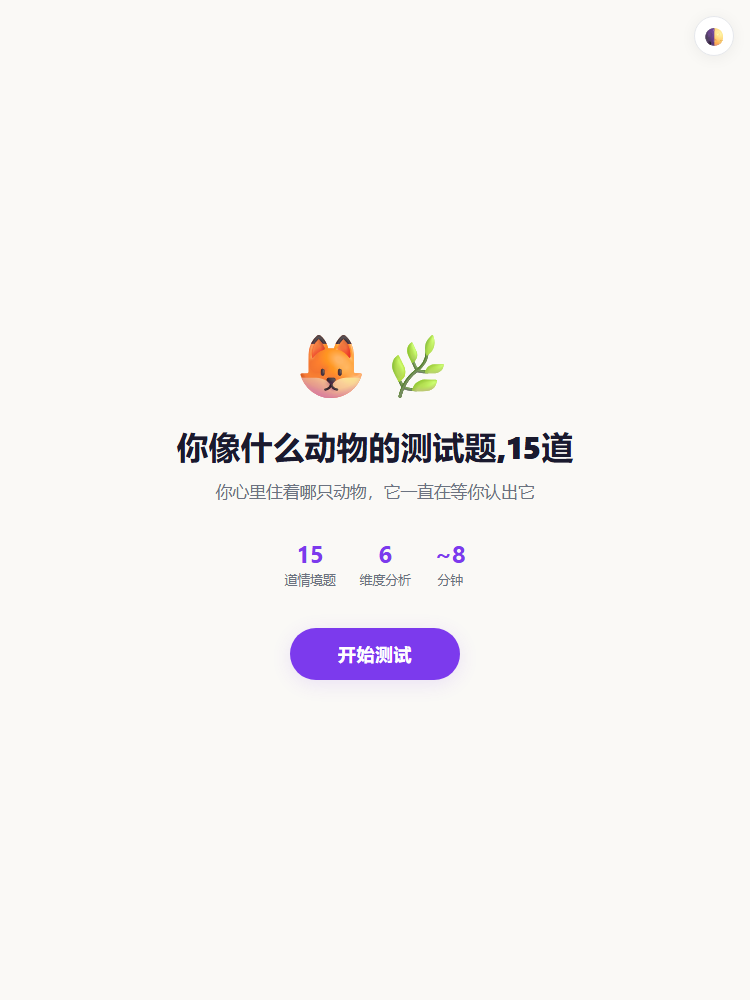
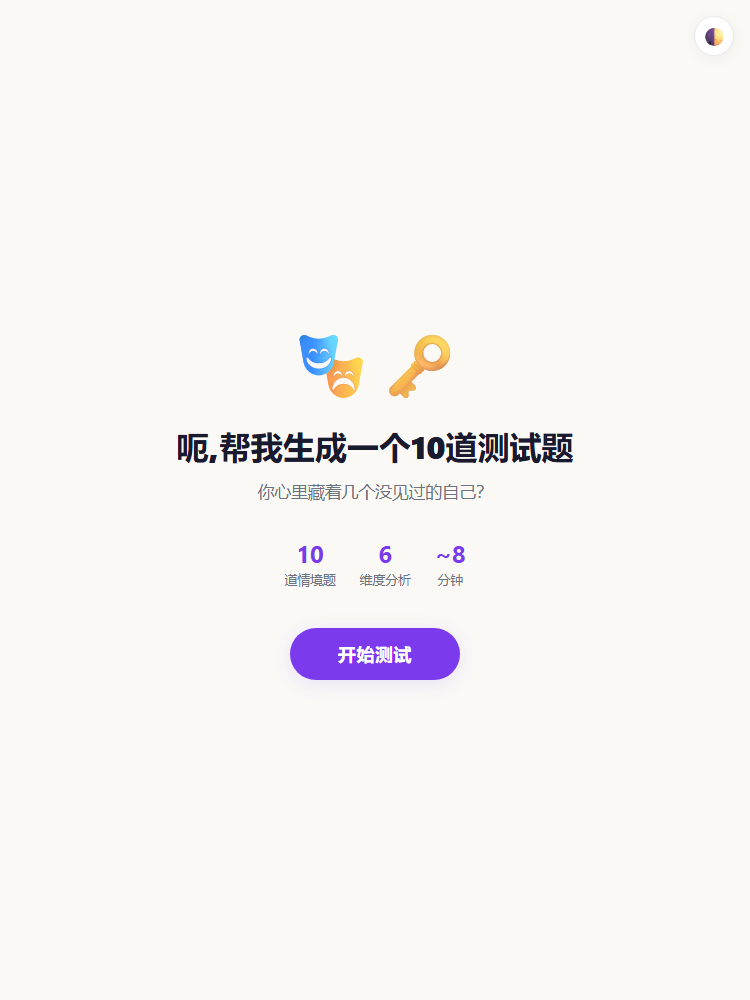
deploy 2026-08-25

diff --git a/d/2026-08-25/index.html b/d/2026-08-25/index.html
@@ -3,7 +3,7 @@
 <head>
 <meta charset="UTF-8">
 <meta name="viewport" content="width=device-width, initial-scale=1.0, maximum-scale=1.0, user-scalable=no">
-<title>你像什么动物的测试题,15道</title>
+<title>呃,帮我生成一个10道测试题</title>
 <style>
   :root {
     --bg: #faf9f6;
@@ -169,9 +169,9 @@
 
 <!-- ═══ Landing Page ═══ -->
 <div id="landing" class="section active">
-  <div class="icon">🦊🌿</div>
-  <h1>你像什么动物的测试题,15道</h1>
-  <p class="tagline">你心里住着哪只动物，它一直在等你认出它</p>
+  <div class="icon">🎭🗝</div>
+  <h1>呃,帮我生成一个10道测试题</h1>
+  <p class="tagline">你心里藏着几个没见过的自己？</p>
   <div class="meta">
     <div class="meta-item"><div class="num" id="total-questions">60</div><div class="label">道情境题</div></div>
     <div class="meta-item"><div class="num">6</div><div class="label">维度分析</div></div>
@@ -205,7 +205,7 @@
 <!-- ═══ Results Section ═══ -->
 <div id="results-section" class="section">
   <div class="result-header">
-    <h1>你像什么动物的测试题,15道 — 你的结果</h1>
+    <h1>呃,帮我生成一个10道测试题 — 你的结果</h1>
     <div class="personality-badge" id="personality-badge">ENFP</div>
     <p style="margin-top:8px;color:var(--text-secondary);font-size:0.9rem;" id="personality-desc"></p>
   </div>
@@ -219,10 +219,10 @@
 <script src="https://cdn.jsdelivr.net/npm/chart.js@4.4.0/dist/chart.umd.min.js" defer></script>
 <script>
   // ═══ Data ═══
-  const questions = [{"id": 1, "text": "朋友临时约你今晚聚餐，你会？", "type": "situational", "content_angle": "social_interaction", "options": [{"label": "A", "text": "立刻答应，人多更热闹", "scores": {"D1": 7, "D2": 4, "D3": 2, "D4": 0, "D5": 0, "D6": 0}}, {"label": "B", "text": "先问有哪些人去再决定", "scores": {"D1": 0, "D2": 0, "D3": 0, "D4": 0, "D5": 5, "D6": 2}}, {"label": "C", "text": "婉拒，更想自己待着", "scores": {"D1": 0, "D2": 0, "D3": 0, "D4": 0, "D5": 0, "D6": 5}}, {"label": "D", "text": "答应，但会提前离场", "scores": {"D1": 2, "D2": 0, "D3": 0, "D4": 0, "D5": 0, "D6": 0}}]}, {"id": 2, "text": "面对一个全新的工作项目，你？", "type": "preference", "content_angle": "decision_style", "options": [{"label": "A", "text": "立刻冲进去边做边学", "scores": {"D2": 7, "D3": 5, "D5": 0, "D1": 0, "D4": 2, "D6": 0}}, {"label": "B", "text": "先花时间研究再动手", "scores": {"D2": 0, "D3": 0, "D5": 7, "D1": 0, "D4": 0, "D6": 0}}, {"label": "C", "text": "感觉不错就接，不纠结", "scores": {"D2": 2, "D3": 2, "D5": 0, "D1": 0, "D4": 0, "D6": 0}}, {"label": "D", "text": "希望有明确指引再行动", "scores": {"D2": 0, "D3": 0, "D5": 3, "D1": 0, "D4": 0, "D6": 4}}]}, {"id": 3, "text": "你的物品被同事不打招呼借用，你？", "type": "situational", "content_angle": "value_judgment", "options": [{"label": "A", "text": "直接拿回来并告知规则", "scores": {"D4": 7, "D6": 7, "D2": 3, "D1": 0, "D5": 0, "D3": 0}}, {"label": "B", "text": "心里不快但不说什么", "scores": {"D4": 0, "D6": 2, "D2": 0, "D1": 0, "D5": 0, "D3": 0}}, {"label": "C", "text": "无所谓，大家随便用", "scores": {"D6": 0, "D4": 0, "D1": 0, "D5": 0, "D3": 3}}, {"label": "D", "text": "以后把东西藏起来", "scores": {"D6": 5, "D2": 0, "D4": 2, "D1": 0, "D5": 0, "D3": 0}}]}, {"id": 4, "text": "周末你更倾向于怎么度过？", "type": "preference", "content_angle": "self_perception", "options": [{"label": "A", "text": "约朋友出去玩或聚会", "scores": {"D1": 7, "D2": 2, "D3": 2, "D4": 0, "D5": 0, "D6": 0}}, {"label": "B", "text": "在家看书或追剧", "scores": {"D1": 0, "D2": 0, "D3": 0, "D4": 0, "D5": 3, "D6": 4}}, {"label": "C", "text": "探索新地方或新餐厅", "scores": {"D3": 7, "D2": 3, "D1": 2, "D4": 0, "D5": 0, "D6": 0}}, {"label": "D", "text": "整理房间或处理琐事", "scores": {"D5": 2, "D2": 2, "D6": 2, "D1": 0, "D4": 0, "D3": 0}}]}, {"id": 5, "text": "团队合作时，你通常扮演？", "type": "self_assessment", "content_angle": "social_interaction", "options": [{"label": "A", "text": "带头冲锋的那个", "scores": {"D4": 7, "D2": 5, "D1": 2, "D5": 0, "D6": 2, "D3": 0}}, {"label": "B", "text": "协调各方和事佬", "scores": {"D1": 5, "D4": 0, "D5": 2, "D2": 0, "D6": 0, "D3": 2}}, {"label": "C", "text": "默默干活的执行者", "scores": {"D2": 3, "D5": 2, "D1": 0, "D4": 0, "D6": 0, "D3": 0}}, {"label": "D", "text": "提点子的智囊", "scores": {"D5": 7, "D1": 0, "D2": 0, "D4": 0, "D6": 0, "D3": 0}}]}, {"id": 6, "text": "到了一个新城市，你会？", "type": "situational", "content_angle": "environment_adaptation", "options": [{"label": "A", "text": "兴奋地四处探索", "scores": {"D3": 7, "D2": 4, "D1": 2, "D4": 0, "D5": 0, "D6": 0}}, {"label": "B", "text": "先找好固定活动范围", "scores": {"D6": 5, "D5": 2, "D3": 2, "D1": 0, "D4": 0, "D2": 0}}, {"label": "C", "text": "有点紧张，慢慢适应", "scores": {"D3": 0, "D2": 0, "D5": 0, "D1": 0, "D4": 0, "D6": 3}}, {"label": "D", "text": "迅速交到新朋友", "scores": {"D1": 7, "D3": 4, "D2": 2, "D4": 0, "D5": 0, "D6": 0}}]}, {"id": 7, "text": "遇到困难时，你的第一反应？", "type": "self_assessment", "content_angle": "stress_response", "options": [{"label": "A", "text": "冷静分析找解决方案", "scores": {"D5": 7, "D2": 3, "D4": 2, "D1": 0, "D6": 0, "D3": 0}}, {"label": "B", "text": "找人倾诉寻求支持", "scores": {"D1": 7, "D2": 0, "D5": 0, "D4": 0, "D6": 2, "D3": 0}}, {"label": "C", "text": "先自己扛，不行再说", "scores": {"D4": 3, "D6": 4, "D2": 0, "D5": 0, "D1": 0, "D3": 0}}, {"label": "D", "text": "随遇而安，船到桥头直", "scores": {"D3": 5, "D5": 0, "D2": 0, "D4": 0, "D1": 0, "D6": 0}}]}, {"id": 8, "text": "关于个人空间，你的态度是？", "type": "value", "content_angle": "value_judgment", "options": [{"label": "A", "text": "我的地盘我做主", "scores": {"D6": 7, "D4": 4, "D2": 0, "D1": 0, "D5": 0, "D3": 0}}, {"label": "B", "text": "空间可以共享，但要有界限", "scores": {"D6": 3, "D5": 2, "D1": 2, "D4": 0, "D2": 0, "D3": 0}}, {"label": "C", "text": "完全开放，不在意这些", "scores": {"D6": 0, "D1": 3, "D3": 2, "D4": 0, "D5": 0, "D2": 0}}, {"label": "D", "text": "需要很多独处时间", "scores": {"D1": 0, "D6": 5, "D3": 0, "D4": 0, "D5": 0, "D2": 0}}]}, {"id": 9, "text": "当别人和你意见不同时，你？", "type": "situational", "content_angle": "social_interaction", "options": [{"label": "A", "text": "坚持自己的观点", "scores": {"D4": 7, "D5": 3, "D2": 2, "D1": 0, "D6": 2, "D3": 0}}, {"label": "B", "text": "听对方说完再判断", "scores": {"D5": 5, "D1": 2, "D4": 0, "D2": 0, "D6": 0, "D3": 2}}, {"label": "C", "text": "为了避免冲突而妥协", "scores": {"D4": 0, "D1": 2, "D3": 2, "D5": 0, "D2": 0, "D6": 0}}, {"label": "D", "text": "情绪上来，不欢而散", "scores": {"D4": 2, "D1": 0, "D5": 0, "D2": 0, "D6": 3, "D3": 0}}]}, {"id": 10, "text": "对于未来，你更看重？", "type": "value", "content_angle": "future_orientation", "options": [{"label": "A", "text": "稳定安逸的生活", "scores": {"D3": 2, "D6": 5, "D2": 0, "D1": 0, "D5": 0, "D4": 0}}, {"label": "B", "text": "精彩刺激的冒险", "scores": {"D2": 6, "D3": 5, "D1": 2, "D4": 0, "D5": 0, "D6": 0}}, {"label": "C", "text": "实现自己的价值", "scores": {"D4": 4, "D5": 3, "D2": 2, "D1": 0, "D6": 0, "D3": 0}}, {"label": "D", "text": "和亲友在一起就好", "scores": {"D1": 5, "D6": 2, "D3": 0, "D4": 0, "D5": 0, "D2": 0}}]}, {"id": 11, "text": "你觉得自己更像哪种风格？", "type": "self_assessment", "content_angle": "self_perception", "options": [{"label": "A", "text": "直来直去的行动派", "scores": {"D2": 6, "D4": 5, "D1": 0, "D5": 0, "D6": 0, "D3": 0}}, {"label": "B", "text": "深思熟虑的思考者", "scores": {"D5": 7, "D2": 0, "D4": 0, "D1": 0, "D6": 2, "D3": 0}}, {"label": "C", "text": "随和好相处的伙伴", "scores": {"D1": 5, "D3": 3, "D4": 0, "D2": 0, "D5": 0, "D6": 0}}, {"label": "D", "text": "独立自主的独行侠", "scores": {"D6": 5, "D1": 0, "D2": 2, "D4": 2, "D5": 0, "D3": 0}}]}, {"id": 12, "text": "给朋友准备生日礼物，你会？", "type": "preference", "content_angle": "emotional_pattern", "options": [{"label": "A", "text": "投其所好精心挑选", "scores": {"D1": 3, "D5": 4, "D2": 2, "D4": 0, "D6": 0, "D3": 0}}, {"label": "B", "text": "实用为主不搞虚的", "scores": {"D5": 5, "D2": 0, "D4": 0, "D1": 0, "D6": 0, "D3": 0}}, {"label": "C", "text": "直接发红包最省事", "scores": {"D2": 3, "D5": 2, "D4": 0, "D1": 0, "D6": 0, "D3": 0}}, {"label": "D", "text": "亲手做更有心意", "scores": {"D1": 2, "D5": 0, "D2": 0, "D4": 0, "D6": 2, "D3": 2}}]}, {"id": 13, "text": "被误解时，你的表现是？", "type": "situational", "content_angle": "social_interaction", "options": [{"label": "A", "text": "立刻解释清楚", "scores": {"D2": 5, "D4": 4, "D1": 2, "D5": 0, "D6": 0, "D3": 0}}, {"label": "B", "text": "懒得解释，懂自懂", "scores": {"D4": 0, "D5": 3, "D6": 3, "D1": 0, "D2": 0, "D3": 0}}, {"label": "C", "text": "很受伤，默默消化", "scores": {"D1": 0, "D5": 0, "D6": 2, "D4": 0, "D2": 0, "D3": 0}}, {"label": "D", "text": "用行动证明自己", "scores": {"D2": 4, "D4": 2, "D5": 2, "D1": 0, "D6": 0, "D3": 0}}]}, {"id": 14, "text": "旅行时你更偏好哪种方式？", "type": "preference", "content_angle": "self_perception", "options": [{"label": "A", "text": "详细计划每天行程", "scores": {"D5": 5, "D2": 2, "D6": 2, "D1": 0, "D4": 0, "D3": 0}}, {"label": "B", "text": "走到哪玩到哪", "scores": {"D3": 6, "D2": 5, "D1": 0, "D4": 0, "D5": 0, "D6": 0}}, {"label": "C", "text": "跟团省心不用想", "scores": {"D2": 0, "D5": 0, "D6": 2, "D1": 2, "D4": 0, "D3": 2}}, {"label": "D", "text": "约上好友一起热闹", "scores": {"D1": 7, "D2": 2, "D3": 2, "D4": 0, "D5": 0, "D6": 0}}]}, {"id": 15, "text": "对于竞争，你的看法是？", "type": "value", "content_angle": "value_judgment", "options": [{"label": "A", "text": "全力以赴争第一", "scores": {"D4": 6, "D2": 5, "D5": 2, "D1": 0, "D6": 2, "D3": 0}}, {"label": "B", "text": "尽力就好不执着", "scores": {"D3": 4, "D5": 2, "D2": 0, "D4": 0, "D1": 0, "D6": 0}}, {"label": "C", "text": "避开竞争找自己的路", "scores": {"D6": 3, "D1": 0, "D2": 0, "D4": 0, "D5": 3, "D3": 2}}, {"label": "D", "text": "享受过程不在乎结果", "scores": {"D3": 3, "D1": 2, "D5": 2, "D2": 0, "D4": 0, "D6": 0}}]}];
-  const dimensionDefs = [{"id": "D1", "name": "社交能量", "description": "你在社交场合中获取能量还是消耗能量，以及与他人互动的方式", "high_label": "群居型", "low_label": "独居型"}, {"id": "D2", "name": "行动风格", "description": "面对目标时你是快速出击还是谨慎观望，决策的速度和方式", "high_label": "敏捷型", "low_label": "沉稳型"}, {"id": "D3", "name": "环境适应", "description": "你对新环境、新变化的适应能力和应对方式", "high_label": "随遇而安", "low_label": "恋旧安定"}, {"id": "D4", "name": "力量展现", "description": "你倾向于用直接强势还是温和迂回的方式解决问题", "high_label": "强势主导", "low_label": "温和迂回"}, {"id": "D5", "name": "思维偏好", "description": "你更依赖理性分析还是直觉感受来做判断", "high_label": "理性分析", "low_label": "直觉感受"}, {"id": "D6", "name": "领地意识", "description": "你对个人空间、资源和关系的占有欲和保护程度", "high_label": "守护型", "low_label": "开放型"}];
-  const personalityMapping = {"classification_type": "descriptive", "primary_tag": "高社交能量·行动派", "tag_name": "草原领航员", "community_description": "和你一样的草原领航员，在人群中通常是最先发出声音、最先迈出脚步的那一个。你们像草原上的领头羚羊，天生带着一种让周围人感到安心的方向感——不是因为你们永远正确，而是因为你们敢在不确定的时候先动起来。你们的社交能量像正午的阳光，能照亮一整个房间，让沉默的人也想开口，让犹豫的人愿意跟上。在行动风格上，你们偏好'先跑了再说'，比起在头脑里反复推演，你们更相信路上会找到答案。这种特质让你们在团队里天然成为推动者，也往往是朋友中那个'组局的人'。但需要注意的是，你们的快节奏有时会让慢热的人感到压力，你们对'效率'的执着也可能无意中忽略了过程中细腻的情感需求。你们适应新环境的能力很强，但可能对重复性、缺乏变化的日常感到焦躁。在力量展现上，你们更倾向于用热情和感染力来带动他人，而不是用权威或压制。思维偏好上，你们是典型的发散型思考者，灵感多、点子密，但可能需要刻意练习'收束'，把想法落地成可执行的步骤。你们的领地意识不算强，但很在意'话语权'——你们希望自己的声音被听见，也希望自己重视的人愿意跟你们并肩。接下来，你们可以练习在冲刺和休整之间找到节奏，学着在发起行动之前多倾听一秒钟，也学着欣赏那些和你们不一样的'慢'——因为草原上不仅有奔跑的羚羊，也有扎根的树。", "possible_tags": ["高社交能量·行动派", "低社交能量·观察派", "高适应·变色龙型", "高力量·主导型", "高思维·策略型", "高领地·守护型"], "dominant_dim": "D1"};
-  const analysisData = [{"dim_id": "D1", "核心特质": "你在聚会中会自动流向人群中心，像磁铁吸附铁屑般自然。朋友说你是‘行走的充电宝’，因为独处超过两小时，你的能量条就开始闪烁红灯。你通过他人的笑声确认自我存在，微信群里的@提示音比咖啡更提神。对你而言，孤独不是享受，而是需要尽快逃离的荒岛。", "潜在盲点": "你常把‘被需要’误认为‘被喜欢’，为维持热闹氛围，会下意识压抑真实情绪。深夜散场后，那种空落感并非疲惫，而是你从未直面自我的回声。过度依赖外部反馈，导致你害怕沉默，甚至用讨好换取在场感——这让你在亲密关系中显得浅层，且容易因他人冷落而焦虑失控。", "专属建议": "每周刻意安排两小时‘数字斋戒’，关掉所有通知，去公园观察一棵树。不必强迫自己享受独处，只需记录下这段空白里冒出的念头。尝试在聊天中主动表达一次反对意见，哪怕只是对餐厅菜品的评价。你会发现，真正的社群归属感不是聚光灯下的热闹，而是有人记得你安静时的模样。"}, {"dim_id": "D2", "核心特质": "你是那种在团队讨论中第一个举手说‘我来试试’的人，行动像猎豹——目标一出现，身体已经比大脑先动。你享受快速试错带来的刺激，讨厌冗长的会议和反复权衡。在社群活动中，你常是带动节奏的人，朋友会形容你‘说走就走’。你的直觉敏锐，能在混乱中抓住关键，用行动力点燃周围人的热情，仿佛天生自带加速器。", "潜在盲点": "你的敏捷有时会变成急躁，尤其在需要耐心倾听或反复推敲的场合。你容易打断别人，因为你觉得‘差不多就该行动了’，但可能忽略细节里的隐患。在社群协作中，你的快节奏会让沉稳型伙伴感到压力，甚至觉得你不尊重他们的节奏。你偶尔会因追求速度而草率决定，事后补救反而更耗时。记住：不是所有问题都适合冲刺，有些需要踱步。", "专属建议": "给自己设一个‘三秒缓冲’：行动前深呼吸数三下，问自己‘这步会不会破坏长远计划’。在社群中，主动邀请一位沉稳型伙伴做你的‘刹车顾问’，让TA在关键决策时给你一个暗号。练习每周至少一次‘慢速任务’——比如手工、长跑或写日记，让身体体验慢的质感。你会发现，敏捷与沉稳不是对立，而是互补的舞步，你能成为两种节奏之间的桥梁。"}, {"dim_id": "D3", "核心特质": "你像水一样，流经任何容器都能瞬间找到形状。新公司入职三天，你已记住茶水间位置和同事的咖啡偏好；搬家后第一晚就能安睡，因为你的安全感来自‘当下’而非‘旧物’。在社群中你总是那个主动破冰的人，聚会临时换场地也毫不慌乱，甚至觉得变化才是常态。这份适应力让你在动荡期成为团队的定心锚，别人焦虑时，你已开始享受新地图的探索乐趣。", "潜在盲点": "你的‘随遇而安’有时会滑向‘无所谓’，比如朋友讨论去哪吃饭，你总说‘都行’，久了让人感觉你没立场。更危险的是，你习惯性快速放下旧关系——离职后从不回老同事群，搬家后和旧邻居彻底失联，看似洒脱，实则用‘适应’逃避深度羁绊。当社群需要你为某件事坚持立场时，你可能会为了维持和谐而放弃原则，反而让信任你的人感到失落。", "专属建议": "给‘适应力’加一个锚点：每次进入新环境，刻意保留一样旧习惯——比如每周三固定和某位老友通电话，或带着旧杯子去新办公室。在社群讨论中，练习先说‘我想要…’再问‘大家觉得呢’，让适应带点个性棱角。当你强烈想念某个旧场景时，别急着转移注意力，写三行‘它曾给我什么’再放手，你会发现：真正的随遇而安，是带着记忆轻盈前行，而非不断清空自己。"}, {"dim_id": "D4", "核心特质": "你像一头昂首巡视领地的雄狮，在团队决策时天然占据话语权，音量、手势、甚至沉默都自带压强。开会时你会直接打断冗长发言，用‘就这么定’终结讨论。高分端的你享受掌控节奏的快感，别人眼中的强势，在你看来是效率的必需品。你天然吸引追随者，但也让同类竞争者在暗处较劲，群体里你永远是那个被仰视或忌惮的存在。", "潜在盲点": "你的直接常被误读为攻击性，尤其在需要安抚情绪的场合，那句‘别废话，做就行’会刺伤敏感队友。你习惯用对抗检验他人忠诚，却忘了温和迂回者也有韧劲。当你不经意间把协商变成命令，把建议变成裁决，疏远感便悄然滋生。最危险的是，你误以为所有退让都是软弱，直到某天发现，那些沉默的‘绵羊’早已结成同盟，用非暴力不合作架空你的权威。", "专属建议": "试着在说‘我认为’之前，先问‘你们怎么看’——这不会削弱你的锋芒，反而让力量更有弹性。每周刻意练习一次‘延迟决策’，把最终拍板权让渡给团队，观察谁在压力下冒出真知灼见。记住，狮子的威严不只靠吼叫，也靠偶尔允许幼崽蹭你的鬃毛。当你学会用三分迂回包裹七分锐利，你会从孤胆王变成众星拱月，那才是更高阶的力量场。"}, {"dim_id": "D5", "核心特质": "你像一只猫头鹰，在深夜的森林里独自梳理数据脉络。当别人被情绪裹挟时，你习惯退后半步，把问题拆解成可验证的假设。朋友找你吐槽，你会先问‘发生了什么’而非‘你感觉如何’。你的思维像一张精密的网，捕捉逻辑漏洞如同猫头鹰锁定田鼠。在理性至上的小圈子里，你是公认的‘定海神针’，那种被信赖的踏实感，让你找到了同类。", "潜在盲点": "你总在等更多信息，却错过了直觉递来的闪电。当朋友红着眼眶说‘我没事’，你分析出‘她在回避问题’，但忘了先递纸巾。过度依赖理性，让你在亲密关系里显得像台温度计——只报数字，不感冷暖。你害怕‘不客观’，却不知有些答案藏在心跳里。当团队需要破冰时，你的沉默常被误读为冷漠，这让感性派伙伴悄悄把你划出‘可交心’名单。", "专属建议": "试着给直觉留一把椅子：下次做决定前，先写下第一个冒出的念头，再让逻辑去验证它。在朋友倾诉时，先重复‘这听起来很难受’，再提建议。你不需要放弃理性，只需把它和感受编成双股绳。加入那些允许‘无结论讨论’的社群，比如哲学夜谈或艺术工作坊，那里没有对错，只有共鸣。你会发现，当理性与直觉握手，你的洞察力会从锋利升级为深邃。"}, {"dim_id": "D6", "核心特质": "你的领地意识像一只警惕的狼，在团队中天然承担‘边界守护者’角色。你会主动记住每个成员的舒适区，像标记地盘一样为社群划出安全线——聚会时留意谁被冷落，讨论时防止话题越界。你并非控制欲强，而是本能地觉得‘保护彼此空间’是归属感的前提。高分端的你，总能在陌生环境里快速建立秩序，让同伴感到‘有你在，没人会被冒犯’。", "潜在盲点": "过度守护可能让社群变成‘围城’——你习惯用沉默或暗示表达边界，但别人未必读懂你的规则。比如新成员热情分享时，你下意识皱眉，对方会误读为排斥；或当冲突发生时，你选择‘守住底线’而非沟通，反而让裂痕加深。低分端的开放倾向被你视为‘失守’，但真正的归属感不是围墙，而是让每个人愿意主动留下的磁场。警惕把‘保护’变成‘设限’。", "专属建议": "试着把‘守护’升级为‘桥梁’：当新朋友进入社群时，主动介绍‘这里的默契规则’而非默默观察；遇到越界行为，用‘我建议…’代替‘不可以’。每周留出一次‘开放日’，允许成员挑战你的边界清单。你会发现，最牢固的领地不是靠防御建立的，而是当大家知道‘你会为他们的空间发声’时，自然愿意把这里当成自己的地盘。你依然是守护者，但可以守护得更轻盈。"}];
+  const questions = [{"id": 1, "text": "周五下班后，你通常会怎么安排？", "type": "preference", "content_angle": "self_perception", "options": [{"label": "A", "text": "约朋友出去聚聚", "scores": {"D1": 8, "D2": 2, "D3": 0, "D4": 0}}, {"label": "B", "text": "一个人安静待着", "scores": {"D1": 2, "D2": 0, "D3": 0, "D4": 0}}, {"label": "C", "text": "去参加社交活动", "scores": {"D1": 6, "D2": 3, "D3": 0, "D4": 0}}, {"label": "D", "text": "在家规划周末计划", "scores": {"D1": 0, "D2": 0, "D3": 0, "D4": 8}}]}, {"id": 2, "text": "同事在会议上否定你的方案，你会？", "type": "situational", "content_angle": "social_interaction", "options": [{"label": "A", "text": "当场反驳，摆出数据", "scores": {"D2": 8, "D3": 6, "D4": 3, "D1": 0}}, {"label": "B", "text": "先听他说完再回应", "scores": {"D2": 5, "D3": 4, "D4": 0, "D1": 0}}, {"label": "C", "text": "感觉被冒犯，不想说话", "scores": {"D2": 2, "D3": 0, "D4": 0, "D1": 4}}, {"label": "D", "text": "私下再找他沟通", "scores": {"D2": 3, "D3": 0, "D4": 5, "D1": 6}}]}, {"id": 3, "text": "面对两个都不错的工作机会，你？", "type": "decision_style", "content_angle": "decision_style", "options": [{"label": "A", "text": "列条件逐项对比打分", "scores": {"D2": 8, "D3": 6, "D4": 5, "D1": 0}}, {"label": "B", "text": "选更感兴趣的那个", "scores": {"D2": 2, "D3": 0, "D4": 0, "D1": 0}}, {"label": "C", "text": "问朋友和家人的意见", "scores": {"D2": 4, "D3": 0, "D4": 0, "D1": 7}}, {"label": "D", "text": "凭直觉快速决定", "scores": {"D2": 1, "D3": 3, "D4": 2, "D1": 0}}]}, {"id": 4, "text": "项目中你更享受哪个环节？", "type": "self_assessment", "content_angle": "self_perception", "options": [{"label": "A", "text": "头脑风暴想点子", "scores": {"D3": 8, "D2": 3, "D1": 0, "D4": 0}}, {"label": "B", "text": "整理细节做执行", "scores": {"D3": 3, "D2": 5, "D4": 8, "D1": 0}}, {"label": "C", "text": "跟不同团队协作", "scores": {"D1": 8, "D2": 2, "D3": 0, "D4": 0}}, {"label": "D", "text": "独自研究新方法", "scores": {"D1": 2, "D3": 6, "D2": 4, "D4": 0}}]}, {"id": 5, "text": "领导布置任务但没说明细节，你？", "type": "situational", "content_angle": "stress_response", "options": [{"label": "A", "text": "先按自己的理解做", "scores": {"D3": 4, "D2": 5, "D4": 6, "D1": 0}}, {"label": "B", "text": "马上找领导问清楚", "scores": {"D1": 7, "D3": 3, "D2": 2, "D4": 0}}, {"label": "C", "text": "边做边看情况调整", "scores": {"D4": 8, "D3": 5, "D2": 0, "D1": 0}}, {"label": "D", "text": "担心做错，迟迟不敢动", "scores": {"D2": 3, "D1": 0, "D3": 0, "D4": 2}}]}, {"id": 6, "text": "以下哪项对你来说更重要？", "type": "value", "content_angle": "value_judgment", "options": [{"label": "A", "text": "结果要完美达标", "scores": {"D2": 6, "D3": 7, "D4": 4, "D1": 0}}, {"label": "B", "text": "过程要开心愉快", "scores": {"D2": 2, "D1": 4, "D3": 0, "D4": 0}}, {"label": "C", "text": "大家要协作顺畅", "scores": {"D1": 7, "D2": 3, "D3": 0, "D4": 0}}, {"label": "D", "text": "能有新发现新想法", "scores": {"D3": 8, "D2": 2, "D1": 0, "D4": 3}}]}, {"id": 7, "text": "出差一周，出发前你会？", "type": "preference", "content_angle": "self_perception", "options": [{"label": "A", "text": "列好清单逐项准备", "scores": {"D4": 8, "D3": 5, "D2": 0, "D1": 0}}, {"label": "B", "text": "提前查好当地攻略", "scores": {"D3": 6, "D4": 5, "D2": 0, "D1": 0}}, {"label": "C", "text": "出发前才匆忙收拾", "scores": {"D4": 2, "D3": 0, "D2": 0, "D1": 0}}, {"label": "D", "text": "期待路上认识新朋友", "scores": {"D1": 8, "D2": 2, "D3": 0, "D4": 0}}]}, {"id": 8, "text": "被人误解时，你的第一反应是？", "type": "emotional_pattern", "content_angle": "emotional_pattern", "options": [{"label": "A", "text": "立刻解释澄清", "scores": {"D1": 6, "D2": 4, "D3": 0, "D4": 0}}, {"label": "B", "text": "心里难受但不说", "scores": {"D2": 2, "D1": 2, "D3": 0, "D4": 0}}, {"label": "C", "text": "反思自己哪里做错", "scores": {"D2": 5, "D3": 3, "D4": 0, "D1": 0}}, {"label": "D", "text": "觉得没必要在意", "scores": {"D2": 7, "D1": 0, "D3": 0, "D4": 5}}]}, {"id": 9, "text": "新项目启动，你会先关注什么？", "type": "situational", "content_angle": "decision_style", "options": [{"label": "A", "text": "具体任务和时间表", "scores": {"D3": 7, "D4": 6, "D2": 0, "D1": 0}}, {"label": "B", "text": "整体目标和愿景", "scores": {"D3": 3, "D2": 4, "D1": 0, "D4": 0}}, {"label": "C", "text": "团队分工和氛围", "scores": {"D1": 7, "D2": 3, "D3": 0, "D4": 0}}, {"label": "D", "text": "自己能学到什么", "scores": {"D2": 5, "D3": 2, "D1": 0, "D4": 0}}]}, {"id": 10, "text": "截止日期前任务完不成，你会？", "type": "stress_response", "content_angle": "stress_response", "options": [{"label": "A", "text": "加班加点赶完", "scores": {"D4": 6, "D2": 4, "D3": 3, "D1": 0}}, {"label": "B", "text": "找领导说明情况", "scores": {"D1": 6, "D2": 5, "D3": 0, "D4": 0}}, {"label": "C", "text": "先休息再想办法", "scores": {"D1": 0, "D2": 2, "D3": 0, "D4": 7}}, {"label": "D", "text": "简化步骤先交差", "scores": {"D3": 5, "D4": 4, "D2": 3, "D1": 0}}]}];
+  const dimensionDefs = [{"id": "D1", "name": "能量来源", "description": "测量个体获取精力的主要方式，是偏向外部社交互动还是内部独处反思", "high_label": "外倾充电型", "low_label": "内倾充电型"}, {"id": "D2", "name": "决策依据", "description": "测量个体在做决定时更依赖逻辑分析还是情感感受", "high_label": "理性主导型", "low_label": "感性主导型"}, {"id": "D3", "name": "信息接收", "description": "测量个体更关注具体细节和实际经验，还是更关注整体模式和未来可能性", "high_label": "务实感知型", "low_label": "直觉洞察型"}, {"id": "D4", "name": "生活方式", "description": "测量个体更偏好灵活随性的安排还是计划有序的节奏", "high_label": "灵活随性型", "low_label": "计划有序型"}];
+  const personalityMapping = {"classification_type": "mbti", "primary_tag": "ENFP", "tag_name": "追光者", "community_description": "和你一样的追光者，在人群中约占7%——你们是那种走进房间就能让气氛变亮的人。你靠直觉捕捉可能性，靠热情驱动行动，对世界抱有天然的好奇和善意。你擅长在别人看到障碍的地方看到门，在别人看到终点的地方看到起点。你的优势在于：你拥有罕见的感染力，能带动身边的人看到更好的自己；你思维跳跃却总能撞出火花，是天然的创意策源地；你对人的洞察力极强，能敏锐感知他人的情绪和需求。但你也需要注意：你的热情来得快去得也快，容易在事情进入执行阶段后感到厌倦；你有时会为了维持和谐而回避冲突，让问题在暗处发酵；你过度依赖灵感而非计划，可能会在关键时刻掉链子。追光者的成长方向，是学会在保持热情的同时为自己搭建可持续的系统，让灵感落地成作品，而不是永远停在起跑线上。你不是不够坚持，你只是需要找到值得坚持的、足够大的理由。", "possible_tags": ["追光者", "架构师", "守护者", "探险家"], "dominant_dim": "D1"};
+  const analysisData = [{"dim_id": "D1", "核心特质": "你像一块社交充电宝，聚会散场后反而电量满格。地铁上偶遇陌生人能聊成朋友，团队头脑风暴时你的点子总在别人的回应中迸发。独处三小时会心慌，但深夜烧烤摊的碰杯声能让你满血复活。在社群中，你是那个主动拉群、组局、把沉默者拽进话题的人——外倾不是话多，而是你的能量泵连接着人群的电流。", "潜在盲点": "你容易把‘热闹’误认为‘联结’，用高频社交掩盖深度思考的匮乏。当社群安静时，你会焦虑地制造话题，甚至打断他人沉思的节奏。独处时，你常刷手机填补空白，却忘了灵感往往诞生于无人喝彩的寂静。你的能量依赖外部反馈，一旦失去掌声，就像断电的霓虹灯——绚烂过，却从未真正照亮自己的内核。", "专属建议": "每周留出两小时‘数字斋戒’，关掉通知，独自散步或写日记。在社群中练习‘沉默倾听’，先数到十再发言，让别人的话真正落进你心里。试着把一次聚会改成‘一人茶会’，带本书去咖啡馆——你会发现，内倾不是牢笼，而是你从未启用的备用电源。真正的社群归属，不是永远在场，而是敢于暂时离场后仍被记得。"}, {"dim_id": "D2", "核心特质": "你像一台精密仪器，面对选择时自动调取数据、逻辑与长期目标。朋友纠结考研还是工作，你三分钟列出SWOT分析；自己换城市，先做成本收益表再订票。群里讨论投资方案，你总能冷静指出漏洞，被戏称‘人形计算器’。你享受这种掌控感——证据越多，决策越稳，哪怕慢一点，也不愿赌一把。", "潜在盲点": "过度依赖理性会让‘正确’变成冰冷铠甲。当伴侣期待你共情时，你递出的却是解决方案；团队头脑风暴中，你常打断感性提案，说‘这不科学’。你回避直觉信号，比如明明身体抗拒某份offer，却因数据完美而接受。久而久之，别人觉得你难靠近，你自己也困惑：为什么明明‘对’，关系却疏远了？", "专属建议": "试着给感性留一席之地：做决定前先问‘此刻身体是放松还是紧绷？’每周留一次‘无理由选择’（比如凭眼缘点菜）。在社群中主动发起‘直觉分享会’，让队友说说第一反应——你会发现，感性不是敌人，而是被忽略的雷达。真正的智慧是理性定方向，直觉调温度，两者合力，才走得远又暖。"}, {"dim_id": "D3", "核心特质": "你像一台高精度雷达，习惯先扫描事实、数据与可验证的细节，再形成判断。在社群讨论中，你常是那个抛出‘具体数据是什么’的人，能迅速从冗长对话里抓取关键信息，并转化为可执行步骤。你信任亲身经历和感官证据，对抽象理论保持谨慎，这种务实风格让你在实操类任务中天然成为可靠节点，同伴也爱找你核对信息。", "潜在盲点": "当信息缺乏实物锚点时，你容易本能地排斥直觉或隐喻性表达，甚至将他人基于感受的洞察误判为‘不严谨’。在快速变化的场景里，你或许过度依赖已有数据，而忽略环境中的微妙信号，比如对方未说出口的情绪或趋势的早期征兆。这会让你在社群中偶尔显得固执，错过那些无法被量化却至关重要的‘氛围信息’。", "专属建议": "试着把直觉当作另一种‘数据源’——它来自你过往经验的压缩包。下次讨论时，先刻意停顿3秒，问自己：‘如果抛开证据，我的第一感觉是什么？’并允许自己说出‘我隐约觉得……’。在社群中，你可以主动邀请‘感觉型’伙伴补充视角，把他们的描述当作待验证的假设，而非干扰。你会发现，务实与洞察并非对立，而是互补的两根天线。"}, {"dim_id": "D4", "核心特质": "你是那种说走就走的人，旅行从不做攻略，周末计划随时推翻重来。外卖软件能点开三家店纠结十分钟，但最后闭眼选一家也乐在其中。你享受被意外惊喜砸中的感觉，觉得变数才是生活的调味剂。朋友约你总说‘到时再看’，却总能在最后一刻出现，带着最鲜活的表情。你像一阵风，轻松吹散身边人按部就班的沉闷，聚会里没人觉得你不可靠，反而都羡慕你那份浑然天成的松弛感。", "潜在盲点": "你的随性偶尔会让别人踩空。答应周五交的表格拖到周日深夜，对方等你到凌晨才收到；说好一起看的电影，你临时换场，同伴的期待瞬间落空。你并非不负责，只是太相信‘船到桥头自然直’，却忘了有些人需要提前规划才能安心。更隐蔽的是，你常为临时选择付出隐性成本——多付的改签费、错过的预约、堆积的琐事，它们像小石子硌脚，久了也疼。你不爱承认，但偶尔的混乱，确实让你暗自焦虑。", "专属建议": "试着给生活留出‘弹性框架’：周中固定两件必做事，周末保留一个空白时段。重要约定设个提前24小时的提醒，不必严格照做，只是给自己留个缓冲。你把计划当枷锁，但可以把它看作游戏地图——知道终点在哪，途中仍能自由绕路。也请相信，那些爱你的人不是要你变成闹钟，只是希望在不确定里，能抓住你一只稳定的手。你的自由是礼物，加上一点可预期的温柔，会让同行者更安心地陪你疯。"}];
   const STORAGE_KEY = 'xhs_test_' + (personalityMapping.classification_type || 'test') + '_' + questions.length;
 
   // ═══ State ═══
@@ -236,7 +236,7 @@
       answers: answers,
       currentQ: currentQ,
       savedAt: new Date().toISOString(),
-      topic: '你像什么动物的测试题,15道',
+      topic: '呃,帮我生成一个10道测试题',
     };
     try {
       localStorage.setItem(STORAGE_KEY, JSON.stringify(data));
@@ -383,7 +383,7 @@
     });
 
     // Normalize 0-100 (dynamic scoring: max = round(100/question_count))
-    var maxPerQ = 7;
+    var maxPerQ = 10;
     var maxPossible = questions.length * maxPerQ;
     var normalized = {};
     Object.keys(rawScores).forEach(function(dim) {

diff --git a/index.html b/index.html
@@ -3,7 +3,7 @@
 <head>
 <meta charset="UTF-8">
 <meta name="viewport" content="width=device-width, initial-scale=1.0, maximum-scale=1.0, user-scalable=no">
-<title>你像什么动物的测试题,15道</title>
+<title>呃,帮我生成一个10道测试题</title>
 <style>
   :root {
     --bg: #faf9f6;
@@ -169,9 +169,9 @@
 
 <!-- ═══ Landing Page ═══ -->
 <div id="landing" class="section active">
-  <div class="icon">🦊🌿</div>
-  <h1>你像什么动物的测试题,15道</h1>
-  <p class="tagline">你心里住着哪只动物，它一直在等你认出它</p>
+  <div class="icon">🎭🗝</div>
+  <h1>呃,帮我生成一个10道测试题</h1>
+  <p class="tagline">你心里藏着几个没见过的自己？</p>
   <div class="meta">
     <div class="meta-item"><div class="num" id="total-questions">60</div><div class="label">道情境题</div></div>
     <div class="meta-item"><div class="num">6</div><div class="label">维度分析</div></div>
@@ -205,7 +205,7 @@
 <!-- ═══ Results Section ═══ -->
 <div id="results-section" class="section">
   <div class="result-header">
-    <h1>你像什么动物的测试题,15道 — 你的结果</h1>
+    <h1>呃,帮我生成一个10道测试题 — 你的结果</h1>
     <div class="personality-badge" id="personality-badge">ENFP</div>
     <p style="margin-top:8px;color:var(--text-secondary);font-size:0.9rem;" id="personality-desc"></p>
   </div>
@@ -219,10 +219,10 @@
 <script src="https://cdn.jsdelivr.net/npm/chart.js@4.4.0/dist/chart.umd.min.js" defer></script>
 <script>
   // ═══ Data ═══
-  const questions = [{"id": 1, "text": "朋友临时约你今晚聚餐，你会？", "type": "situational", "content_angle": "social_interaction", "options": [{"label": "A", "text": "立刻答应，人多更热闹", "scores": {"D1": 7, "D2": 4, "D3": 2, "D4": 0, "D5": 0, "D6": 0}}, {"label": "B", "text": "先问有哪些人去再决定", "scores": {"D1": 0, "D2": 0, "D3": 0, "D4": 0, "D5": 5, "D6": 2}}, {"label": "C", "text": "婉拒，更想自己待着", "scores": {"D1": 0, "D2": 0, "D3": 0, "D4": 0, "D5": 0, "D6": 5}}, {"label": "D", "text": "答应，但会提前离场", "scores": {"D1": 2, "D2": 0, "D3": 0, "D4": 0, "D5": 0, "D6": 0}}]}, {"id": 2, "text": "面对一个全新的工作项目，你？", "type": "preference", "content_angle": "decision_style", "options": [{"label": "A", "text": "立刻冲进去边做边学", "scores": {"D2": 7, "D3": 5, "D5": 0, "D1": 0, "D4": 2, "D6": 0}}, {"label": "B", "text": "先花时间研究再动手", "scores": {"D2": 0, "D3": 0, "D5": 7, "D1": 0, "D4": 0, "D6": 0}}, {"label": "C", "text": "感觉不错就接，不纠结", "scores": {"D2": 2, "D3": 2, "D5": 0, "D1": 0, "D4": 0, "D6": 0}}, {"label": "D", "text": "希望有明确指引再行动", "scores": {"D2": 0, "D3": 0, "D5": 3, "D1": 0, "D4": 0, "D6": 4}}]}, {"id": 3, "text": "你的物品被同事不打招呼借用，你？", "type": "situational", "content_angle": "value_judgment", "options": [{"label": "A", "text": "直接拿回来并告知规则", "scores": {"D4": 7, "D6": 7, "D2": 3, "D1": 0, "D5": 0, "D3": 0}}, {"label": "B", "text": "心里不快但不说什么", "scores": {"D4": 0, "D6": 2, "D2": 0, "D1": 0, "D5": 0, "D3": 0}}, {"label": "C", "text": "无所谓，大家随便用", "scores": {"D6": 0, "D4": 0, "D1": 0, "D5": 0, "D3": 3}}, {"label": "D", "text": "以后把东西藏起来", "scores": {"D6": 5, "D2": 0, "D4": 2, "D1": 0, "D5": 0, "D3": 0}}]}, {"id": 4, "text": "周末你更倾向于怎么度过？", "type": "preference", "content_angle": "self_perception", "options": [{"label": "A", "text": "约朋友出去玩或聚会", "scores": {"D1": 7, "D2": 2, "D3": 2, "D4": 0, "D5": 0, "D6": 0}}, {"label": "B", "text": "在家看书或追剧", "scores": {"D1": 0, "D2": 0, "D3": 0, "D4": 0, "D5": 3, "D6": 4}}, {"label": "C", "text": "探索新地方或新餐厅", "scores": {"D3": 7, "D2": 3, "D1": 2, "D4": 0, "D5": 0, "D6": 0}}, {"label": "D", "text": "整理房间或处理琐事", "scores": {"D5": 2, "D2": 2, "D6": 2, "D1": 0, "D4": 0, "D3": 0}}]}, {"id": 5, "text": "团队合作时，你通常扮演？", "type": "self_assessment", "content_angle": "social_interaction", "options": [{"label": "A", "text": "带头冲锋的那个", "scores": {"D4": 7, "D2": 5, "D1": 2, "D5": 0, "D6": 2, "D3": 0}}, {"label": "B", "text": "协调各方和事佬", "scores": {"D1": 5, "D4": 0, "D5": 2, "D2": 0, "D6": 0, "D3": 2}}, {"label": "C", "text": "默默干活的执行者", "scores": {"D2": 3, "D5": 2, "D1": 0, "D4": 0, "D6": 0, "D3": 0}}, {"label": "D", "text": "提点子的智囊", "scores": {"D5": 7, "D1": 0, "D2": 0, "D4": 0, "D6": 0, "D3": 0}}]}, {"id": 6, "text": "到了一个新城市，你会？", "type": "situational", "content_angle": "environment_adaptation", "options": [{"label": "A", "text": "兴奋地四处探索", "scores": {"D3": 7, "D2": 4, "D1": 2, "D4": 0, "D5": 0, "D6": 0}}, {"label": "B", "text": "先找好固定活动范围", "scores": {"D6": 5, "D5": 2, "D3": 2, "D1": 0, "D4": 0, "D2": 0}}, {"label": "C", "text": "有点紧张，慢慢适应", "scores": {"D3": 0, "D2": 0, "D5": 0, "D1": 0, "D4": 0, "D6": 3}}, {"label": "D", "text": "迅速交到新朋友", "scores": {"D1": 7, "D3": 4, "D2": 2, "D4": 0, "D5": 0, "D6": 0}}]}, {"id": 7, "text": "遇到困难时，你的第一反应？", "type": "self_assessment", "content_angle": "stress_response", "options": [{"label": "A", "text": "冷静分析找解决方案", "scores": {"D5": 7, "D2": 3, "D4": 2, "D1": 0, "D6": 0, "D3": 0}}, {"label": "B", "text": "找人倾诉寻求支持", "scores": {"D1": 7, "D2": 0, "D5": 0, "D4": 0, "D6": 2, "D3": 0}}, {"label": "C", "text": "先自己扛，不行再说", "scores": {"D4": 3, "D6": 4, "D2": 0, "D5": 0, "D1": 0, "D3": 0}}, {"label": "D", "text": "随遇而安，船到桥头直", "scores": {"D3": 5, "D5": 0, "D2": 0, "D4": 0, "D1": 0, "D6": 0}}]}, {"id": 8, "text": "关于个人空间，你的态度是？", "type": "value", "content_angle": "value_judgment", "options": [{"label": "A", "text": "我的地盘我做主", "scores": {"D6": 7, "D4": 4, "D2": 0, "D1": 0, "D5": 0, "D3": 0}}, {"label": "B", "text": "空间可以共享，但要有界限", "scores": {"D6": 3, "D5": 2, "D1": 2, "D4": 0, "D2": 0, "D3": 0}}, {"label": "C", "text": "完全开放，不在意这些", "scores": {"D6": 0, "D1": 3, "D3": 2, "D4": 0, "D5": 0, "D2": 0}}, {"label": "D", "text": "需要很多独处时间", "scores": {"D1": 0, "D6": 5, "D3": 0, "D4": 0, "D5": 0, "D2": 0}}]}, {"id": 9, "text": "当别人和你意见不同时，你？", "type": "situational", "content_angle": "social_interaction", "options": [{"label": "A", "text": "坚持自己的观点", "scores": {"D4": 7, "D5": 3, "D2": 2, "D1": 0, "D6": 2, "D3": 0}}, {"label": "B", "text": "听对方说完再判断", "scores": {"D5": 5, "D1": 2, "D4": 0, "D2": 0, "D6": 0, "D3": 2}}, {"label": "C", "text": "为了避免冲突而妥协", "scores": {"D4": 0, "D1": 2, "D3": 2, "D5": 0, "D2": 0, "D6": 0}}, {"label": "D", "text": "情绪上来，不欢而散", "scores": {"D4": 2, "D1": 0, "D5": 0, "D2": 0, "D6": 3, "D3": 0}}]}, {"id": 10, "text": "对于未来，你更看重？", "type": "value", "content_angle": "future_orientation", "options": [{"label": "A", "text": "稳定安逸的生活", "scores": {"D3": 2, "D6": 5, "D2": 0, "D1": 0, "D5": 0, "D4": 0}}, {"label": "B", "text": "精彩刺激的冒险", "scores": {"D2": 6, "D3": 5, "D1": 2, "D4": 0, "D5": 0, "D6": 0}}, {"label": "C", "text": "实现自己的价值", "scores": {"D4": 4, "D5": 3, "D2": 2, "D1": 0, "D6": 0, "D3": 0}}, {"label": "D", "text": "和亲友在一起就好", "scores": {"D1": 5, "D6": 2, "D3": 0, "D4": 0, "D5": 0, "D2": 0}}]}, {"id": 11, "text": "你觉得自己更像哪种风格？", "type": "self_assessment", "content_angle": "self_perception", "options": [{"label": "A", "text": "直来直去的行动派", "scores": {"D2": 6, "D4": 5, "D1": 0, "D5": 0, "D6": 0, "D3": 0}}, {"label": "B", "text": "深思熟虑的思考者", "scores": {"D5": 7, "D2": 0, "D4": 0, "D1": 0, "D6": 2, "D3": 0}}, {"label": "C", "text": "随和好相处的伙伴", "scores": {"D1": 5, "D3": 3, "D4": 0, "D2": 0, "D5": 0, "D6": 0}}, {"label": "D", "text": "独立自主的独行侠", "scores": {"D6": 5, "D1": 0, "D2": 2, "D4": 2, "D5": 0, "D3": 0}}]}, {"id": 12, "text": "给朋友准备生日礼物，你会？", "type": "preference", "content_angle": "emotional_pattern", "options": [{"label": "A", "text": "投其所好精心挑选", "scores": {"D1": 3, "D5": 4, "D2": 2, "D4": 0, "D6": 0, "D3": 0}}, {"label": "B", "text": "实用为主不搞虚的", "scores": {"D5": 5, "D2": 0, "D4": 0, "D1": 0, "D6": 0, "D3": 0}}, {"label": "C", "text": "直接发红包最省事", "scores": {"D2": 3, "D5": 2, "D4": 0, "D1": 0, "D6": 0, "D3": 0}}, {"label": "D", "text": "亲手做更有心意", "scores": {"D1": 2, "D5": 0, "D2": 0, "D4": 0, "D6": 2, "D3": 2}}]}, {"id": 13, "text": "被误解时，你的表现是？", "type": "situational", "content_angle": "social_interaction", "options": [{"label": "A", "text": "立刻解释清楚", "scores": {"D2": 5, "D4": 4, "D1": 2, "D5": 0, "D6": 0, "D3": 0}}, {"label": "B", "text": "懒得解释，懂自懂", "scores": {"D4": 0, "D5": 3, "D6": 3, "D1": 0, "D2": 0, "D3": 0}}, {"label": "C", "text": "很受伤，默默消化", "scores": {"D1": 0, "D5": 0, "D6": 2, "D4": 0, "D2": 0, "D3": 0}}, {"label": "D", "text": "用行动证明自己", "scores": {"D2": 4, "D4": 2, "D5": 2, "D1": 0, "D6": 0, "D3": 0}}]}, {"id": 14, "text": "旅行时你更偏好哪种方式？", "type": "preference", "content_angle": "self_perception", "options": [{"label": "A", "text": "详细计划每天行程", "scores": {"D5": 5, "D2": 2, "D6": 2, "D1": 0, "D4": 0, "D3": 0}}, {"label": "B", "text": "走到哪玩到哪", "scores": {"D3": 6, "D2": 5, "D1": 0, "D4": 0, "D5": 0, "D6": 0}}, {"label": "C", "text": "跟团省心不用想", "scores": {"D2": 0, "D5": 0, "D6": 2, "D1": 2, "D4": 0, "D3": 2}}, {"label": "D", "text": "约上好友一起热闹", "scores": {"D1": 7, "D2": 2, "D3": 2, "D4": 0, "D5": 0, "D6": 0}}]}, {"id": 15, "text": "对于竞争，你的看法是？", "type": "value", "content_angle": "value_judgment", "options": [{"label": "A", "text": "全力以赴争第一", "scores": {"D4": 6, "D2": 5, "D5": 2, "D1": 0, "D6": 2, "D3": 0}}, {"label": "B", "text": "尽力就好不执着", "scores": {"D3": 4, "D5": 2, "D2": 0, "D4": 0, "D1": 0, "D6": 0}}, {"label": "C", "text": "避开竞争找自己的路", "scores": {"D6": 3, "D1": 0, "D2": 0, "D4": 0, "D5": 3, "D3": 2}}, {"label": "D", "text": "享受过程不在乎结果", "scores": {"D3": 3, "D1": 2, "D5": 2, "D2": 0, "D4": 0, "D6": 0}}]}];
-  const dimensionDefs = [{"id": "D1", "name": "社交能量", "description": "你在社交场合中获取能量还是消耗能量，以及与他人互动的方式", "high_label": "群居型", "low_label": "独居型"}, {"id": "D2", "name": "行动风格", "description": "面对目标时你是快速出击还是谨慎观望，决策的速度和方式", "high_label": "敏捷型", "low_label": "沉稳型"}, {"id": "D3", "name": "环境适应", "description": "你对新环境、新变化的适应能力和应对方式", "high_label": "随遇而安", "low_label": "恋旧安定"}, {"id": "D4", "name": "力量展现", "description": "你倾向于用直接强势还是温和迂回的方式解决问题", "high_label": "强势主导", "low_label": "温和迂回"}, {"id": "D5", "name": "思维偏好", "description": "你更依赖理性分析还是直觉感受来做判断", "high_label": "理性分析", "low_label": "直觉感受"}, {"id": "D6", "name": "领地意识", "description": "你对个人空间、资源和关系的占有欲和保护程度", "high_label": "守护型", "low_label": "开放型"}];
-  const personalityMapping = {"classification_type": "descriptive", "primary_tag": "高社交能量·行动派", "tag_name": "草原领航员", "community_description": "和你一样的草原领航员，在人群中通常是最先发出声音、最先迈出脚步的那一个。你们像草原上的领头羚羊，天生带着一种让周围人感到安心的方向感——不是因为你们永远正确，而是因为你们敢在不确定的时候先动起来。你们的社交能量像正午的阳光，能照亮一整个房间，让沉默的人也想开口，让犹豫的人愿意跟上。在行动风格上，你们偏好'先跑了再说'，比起在头脑里反复推演，你们更相信路上会找到答案。这种特质让你们在团队里天然成为推动者，也往往是朋友中那个'组局的人'。但需要注意的是，你们的快节奏有时会让慢热的人感到压力，你们对'效率'的执着也可能无意中忽略了过程中细腻的情感需求。你们适应新环境的能力很强，但可能对重复性、缺乏变化的日常感到焦躁。在力量展现上，你们更倾向于用热情和感染力来带动他人，而不是用权威或压制。思维偏好上，你们是典型的发散型思考者，灵感多、点子密，但可能需要刻意练习'收束'，把想法落地成可执行的步骤。你们的领地意识不算强，但很在意'话语权'——你们希望自己的声音被听见，也希望自己重视的人愿意跟你们并肩。接下来，你们可以练习在冲刺和休整之间找到节奏，学着在发起行动之前多倾听一秒钟，也学着欣赏那些和你们不一样的'慢'——因为草原上不仅有奔跑的羚羊，也有扎根的树。", "possible_tags": ["高社交能量·行动派", "低社交能量·观察派", "高适应·变色龙型", "高力量·主导型", "高思维·策略型", "高领地·守护型"], "dominant_dim": "D1"};
-  const analysisData = [{"dim_id": "D1", "核心特质": "你在聚会中会自动流向人群中心，像磁铁吸附铁屑般自然。朋友说你是‘行走的充电宝’，因为独处超过两小时，你的能量条就开始闪烁红灯。你通过他人的笑声确认自我存在，微信群里的@提示音比咖啡更提神。对你而言，孤独不是享受，而是需要尽快逃离的荒岛。", "潜在盲点": "你常把‘被需要’误认为‘被喜欢’，为维持热闹氛围，会下意识压抑真实情绪。深夜散场后，那种空落感并非疲惫，而是你从未直面自我的回声。过度依赖外部反馈，导致你害怕沉默，甚至用讨好换取在场感——这让你在亲密关系中显得浅层，且容易因他人冷落而焦虑失控。", "专属建议": "每周刻意安排两小时‘数字斋戒’，关掉所有通知，去公园观察一棵树。不必强迫自己享受独处，只需记录下这段空白里冒出的念头。尝试在聊天中主动表达一次反对意见，哪怕只是对餐厅菜品的评价。你会发现，真正的社群归属感不是聚光灯下的热闹，而是有人记得你安静时的模样。"}, {"dim_id": "D2", "核心特质": "你是那种在团队讨论中第一个举手说‘我来试试’的人，行动像猎豹——目标一出现，身体已经比大脑先动。你享受快速试错带来的刺激，讨厌冗长的会议和反复权衡。在社群活动中，你常是带动节奏的人，朋友会形容你‘说走就走’。你的直觉敏锐，能在混乱中抓住关键，用行动力点燃周围人的热情，仿佛天生自带加速器。", "潜在盲点": "你的敏捷有时会变成急躁，尤其在需要耐心倾听或反复推敲的场合。你容易打断别人，因为你觉得‘差不多就该行动了’，但可能忽略细节里的隐患。在社群协作中，你的快节奏会让沉稳型伙伴感到压力，甚至觉得你不尊重他们的节奏。你偶尔会因追求速度而草率决定，事后补救反而更耗时。记住：不是所有问题都适合冲刺，有些需要踱步。", "专属建议": "给自己设一个‘三秒缓冲’：行动前深呼吸数三下，问自己‘这步会不会破坏长远计划’。在社群中，主动邀请一位沉稳型伙伴做你的‘刹车顾问’，让TA在关键决策时给你一个暗号。练习每周至少一次‘慢速任务’——比如手工、长跑或写日记，让身体体验慢的质感。你会发现，敏捷与沉稳不是对立，而是互补的舞步，你能成为两种节奏之间的桥梁。"}, {"dim_id": "D3", "核心特质": "你像水一样，流经任何容器都能瞬间找到形状。新公司入职三天，你已记住茶水间位置和同事的咖啡偏好；搬家后第一晚就能安睡，因为你的安全感来自‘当下’而非‘旧物’。在社群中你总是那个主动破冰的人，聚会临时换场地也毫不慌乱，甚至觉得变化才是常态。这份适应力让你在动荡期成为团队的定心锚，别人焦虑时，你已开始享受新地图的探索乐趣。", "潜在盲点": "你的‘随遇而安’有时会滑向‘无所谓’，比如朋友讨论去哪吃饭，你总说‘都行’，久了让人感觉你没立场。更危险的是，你习惯性快速放下旧关系——离职后从不回老同事群，搬家后和旧邻居彻底失联，看似洒脱，实则用‘适应’逃避深度羁绊。当社群需要你为某件事坚持立场时，你可能会为了维持和谐而放弃原则，反而让信任你的人感到失落。", "专属建议": "给‘适应力’加一个锚点：每次进入新环境，刻意保留一样旧习惯——比如每周三固定和某位老友通电话，或带着旧杯子去新办公室。在社群讨论中，练习先说‘我想要…’再问‘大家觉得呢’，让适应带点个性棱角。当你强烈想念某个旧场景时，别急着转移注意力，写三行‘它曾给我什么’再放手，你会发现：真正的随遇而安，是带着记忆轻盈前行，而非不断清空自己。"}, {"dim_id": "D4", "核心特质": "你像一头昂首巡视领地的雄狮，在团队决策时天然占据话语权，音量、手势、甚至沉默都自带压强。开会时你会直接打断冗长发言，用‘就这么定’终结讨论。高分端的你享受掌控节奏的快感，别人眼中的强势，在你看来是效率的必需品。你天然吸引追随者，但也让同类竞争者在暗处较劲，群体里你永远是那个被仰视或忌惮的存在。", "潜在盲点": "你的直接常被误读为攻击性，尤其在需要安抚情绪的场合，那句‘别废话，做就行’会刺伤敏感队友。你习惯用对抗检验他人忠诚，却忘了温和迂回者也有韧劲。当你不经意间把协商变成命令，把建议变成裁决，疏远感便悄然滋生。最危险的是，你误以为所有退让都是软弱，直到某天发现，那些沉默的‘绵羊’早已结成同盟，用非暴力不合作架空你的权威。", "专属建议": "试着在说‘我认为’之前，先问‘你们怎么看’——这不会削弱你的锋芒，反而让力量更有弹性。每周刻意练习一次‘延迟决策’，把最终拍板权让渡给团队，观察谁在压力下冒出真知灼见。记住，狮子的威严不只靠吼叫，也靠偶尔允许幼崽蹭你的鬃毛。当你学会用三分迂回包裹七分锐利，你会从孤胆王变成众星拱月，那才是更高阶的力量场。"}, {"dim_id": "D5", "核心特质": "你像一只猫头鹰，在深夜的森林里独自梳理数据脉络。当别人被情绪裹挟时，你习惯退后半步，把问题拆解成可验证的假设。朋友找你吐槽，你会先问‘发生了什么’而非‘你感觉如何’。你的思维像一张精密的网，捕捉逻辑漏洞如同猫头鹰锁定田鼠。在理性至上的小圈子里，你是公认的‘定海神针’，那种被信赖的踏实感，让你找到了同类。", "潜在盲点": "你总在等更多信息，却错过了直觉递来的闪电。当朋友红着眼眶说‘我没事’，你分析出‘她在回避问题’，但忘了先递纸巾。过度依赖理性，让你在亲密关系里显得像台温度计——只报数字，不感冷暖。你害怕‘不客观’，却不知有些答案藏在心跳里。当团队需要破冰时，你的沉默常被误读为冷漠，这让感性派伙伴悄悄把你划出‘可交心’名单。", "专属建议": "试着给直觉留一把椅子：下次做决定前，先写下第一个冒出的念头，再让逻辑去验证它。在朋友倾诉时，先重复‘这听起来很难受’，再提建议。你不需要放弃理性，只需把它和感受编成双股绳。加入那些允许‘无结论讨论’的社群，比如哲学夜谈或艺术工作坊，那里没有对错，只有共鸣。你会发现，当理性与直觉握手，你的洞察力会从锋利升级为深邃。"}, {"dim_id": "D6", "核心特质": "你的领地意识像一只警惕的狼，在团队中天然承担‘边界守护者’角色。你会主动记住每个成员的舒适区，像标记地盘一样为社群划出安全线——聚会时留意谁被冷落，讨论时防止话题越界。你并非控制欲强，而是本能地觉得‘保护彼此空间’是归属感的前提。高分端的你，总能在陌生环境里快速建立秩序，让同伴感到‘有你在，没人会被冒犯’。", "潜在盲点": "过度守护可能让社群变成‘围城’——你习惯用沉默或暗示表达边界，但别人未必读懂你的规则。比如新成员热情分享时，你下意识皱眉，对方会误读为排斥；或当冲突发生时，你选择‘守住底线’而非沟通，反而让裂痕加深。低分端的开放倾向被你视为‘失守’，但真正的归属感不是围墙，而是让每个人愿意主动留下的磁场。警惕把‘保护’变成‘设限’。", "专属建议": "试着把‘守护’升级为‘桥梁’：当新朋友进入社群时，主动介绍‘这里的默契规则’而非默默观察；遇到越界行为，用‘我建议…’代替‘不可以’。每周留出一次‘开放日’，允许成员挑战你的边界清单。你会发现，最牢固的领地不是靠防御建立的，而是当大家知道‘你会为他们的空间发声’时，自然愿意把这里当成自己的地盘。你依然是守护者，但可以守护得更轻盈。"}];
+  const questions = [{"id": 1, "text": "周五下班后，你通常会怎么安排？", "type": "preference", "content_angle": "self_perception", "options": [{"label": "A", "text": "约朋友出去聚聚", "scores": {"D1": 8, "D2": 2, "D3": 0, "D4": 0}}, {"label": "B", "text": "一个人安静待着", "scores": {"D1": 2, "D2": 0, "D3": 0, "D4": 0}}, {"label": "C", "text": "去参加社交活动", "scores": {"D1": 6, "D2": 3, "D3": 0, "D4": 0}}, {"label": "D", "text": "在家规划周末计划", "scores": {"D1": 0, "D2": 0, "D3": 0, "D4": 8}}]}, {"id": 2, "text": "同事在会议上否定你的方案，你会？", "type": "situational", "content_angle": "social_interaction", "options": [{"label": "A", "text": "当场反驳，摆出数据", "scores": {"D2": 8, "D3": 6, "D4": 3, "D1": 0}}, {"label": "B", "text": "先听他说完再回应", "scores": {"D2": 5, "D3": 4, "D4": 0, "D1": 0}}, {"label": "C", "text": "感觉被冒犯，不想说话", "scores": {"D2": 2, "D3": 0, "D4": 0, "D1": 4}}, {"label": "D", "text": "私下再找他沟通", "scores": {"D2": 3, "D3": 0, "D4": 5, "D1": 6}}]}, {"id": 3, "text": "面对两个都不错的工作机会，你？", "type": "decision_style", "content_angle": "decision_style", "options": [{"label": "A", "text": "列条件逐项对比打分", "scores": {"D2": 8, "D3": 6, "D4": 5, "D1": 0}}, {"label": "B", "text": "选更感兴趣的那个", "scores": {"D2": 2, "D3": 0, "D4": 0, "D1": 0}}, {"label": "C", "text": "问朋友和家人的意见", "scores": {"D2": 4, "D3": 0, "D4": 0, "D1": 7}}, {"label": "D", "text": "凭直觉快速决定", "scores": {"D2": 1, "D3": 3, "D4": 2, "D1": 0}}]}, {"id": 4, "text": "项目中你更享受哪个环节？", "type": "self_assessment", "content_angle": "self_perception", "options": [{"label": "A", "text": "头脑风暴想点子", "scores": {"D3": 8, "D2": 3, "D1": 0, "D4": 0}}, {"label": "B", "text": "整理细节做执行", "scores": {"D3": 3, "D2": 5, "D4": 8, "D1": 0}}, {"label": "C", "text": "跟不同团队协作", "scores": {"D1": 8, "D2": 2, "D3": 0, "D4": 0}}, {"label": "D", "text": "独自研究新方法", "scores": {"D1": 2, "D3": 6, "D2": 4, "D4": 0}}]}, {"id": 5, "text": "领导布置任务但没说明细节，你？", "type": "situational", "content_angle": "stress_response", "options": [{"label": "A", "text": "先按自己的理解做", "scores": {"D3": 4, "D2": 5, "D4": 6, "D1": 0}}, {"label": "B", "text": "马上找领导问清楚", "scores": {"D1": 7, "D3": 3, "D2": 2, "D4": 0}}, {"label": "C", "text": "边做边看情况调整", "scores": {"D4": 8, "D3": 5, "D2": 0, "D1": 0}}, {"label": "D", "text": "担心做错，迟迟不敢动", "scores": {"D2": 3, "D1": 0, "D3": 0, "D4": 2}}]}, {"id": 6, "text": "以下哪项对你来说更重要？", "type": "value", "content_angle": "value_judgment", "options": [{"label": "A", "text": "结果要完美达标", "scores": {"D2": 6, "D3": 7, "D4": 4, "D1": 0}}, {"label": "B", "text": "过程要开心愉快", "scores": {"D2": 2, "D1": 4, "D3": 0, "D4": 0}}, {"label": "C", "text": "大家要协作顺畅", "scores": {"D1": 7, "D2": 3, "D3": 0, "D4": 0}}, {"label": "D", "text": "能有新发现新想法", "scores": {"D3": 8, "D2": 2, "D1": 0, "D4": 3}}]}, {"id": 7, "text": "出差一周，出发前你会？", "type": "preference", "content_angle": "self_perception", "options": [{"label": "A", "text": "列好清单逐项准备", "scores": {"D4": 8, "D3": 5, "D2": 0, "D1": 0}}, {"label": "B", "text": "提前查好当地攻略", "scores": {"D3": 6, "D4": 5, "D2": 0, "D1": 0}}, {"label": "C", "text": "出发前才匆忙收拾", "scores": {"D4": 2, "D3": 0, "D2": 0, "D1": 0}}, {"label": "D", "text": "期待路上认识新朋友", "scores": {"D1": 8, "D2": 2, "D3": 0, "D4": 0}}]}, {"id": 8, "text": "被人误解时，你的第一反应是？", "type": "emotional_pattern", "content_angle": "emotional_pattern", "options": [{"label": "A", "text": "立刻解释澄清", "scores": {"D1": 6, "D2": 4, "D3": 0, "D4": 0}}, {"label": "B", "text": "心里难受但不说", "scores": {"D2": 2, "D1": 2, "D3": 0, "D4": 0}}, {"label": "C", "text": "反思自己哪里做错", "scores": {"D2": 5, "D3": 3, "D4": 0, "D1": 0}}, {"label": "D", "text": "觉得没必要在意", "scores": {"D2": 7, "D1": 0, "D3": 0, "D4": 5}}]}, {"id": 9, "text": "新项目启动，你会先关注什么？", "type": "situational", "content_angle": "decision_style", "options": [{"label": "A", "text": "具体任务和时间表", "scores": {"D3": 7, "D4": 6, "D2": 0, "D1": 0}}, {"label": "B", "text": "整体目标和愿景", "scores": {"D3": 3, "D2": 4, "D1": 0, "D4": 0}}, {"label": "C", "text": "团队分工和氛围", "scores": {"D1": 7, "D2": 3, "D3": 0, "D4": 0}}, {"label": "D", "text": "自己能学到什么", "scores": {"D2": 5, "D3": 2, "D1": 0, "D4": 0}}]}, {"id": 10, "text": "截止日期前任务完不成，你会？", "type": "stress_response", "content_angle": "stress_response", "options": [{"label": "A", "text": "加班加点赶完", "scores": {"D4": 6, "D2": 4, "D3": 3, "D1": 0}}, {"label": "B", "text": "找领导说明情况", "scores": {"D1": 6, "D2": 5, "D3": 0, "D4": 0}}, {"label": "C", "text": "先休息再想办法", "scores": {"D1": 0, "D2": 2, "D3": 0, "D4": 7}}, {"label": "D", "text": "简化步骤先交差", "scores": {"D3": 5, "D4": 4, "D2": 3, "D1": 0}}]}];
+  const dimensionDefs = [{"id": "D1", "name": "能量来源", "description": "测量个体获取精力的主要方式，是偏向外部社交互动还是内部独处反思", "high_label": "外倾充电型", "low_label": "内倾充电型"}, {"id": "D2", "name": "决策依据", "description": "测量个体在做决定时更依赖逻辑分析还是情感感受", "high_label": "理性主导型", "low_label": "感性主导型"}, {"id": "D3", "name": "信息接收", "description": "测量个体更关注具体细节和实际经验，还是更关注整体模式和未来可能性", "high_label": "务实感知型", "low_label": "直觉洞察型"}, {"id": "D4", "name": "生活方式", "description": "测量个体更偏好灵活随性的安排还是计划有序的节奏", "high_label": "灵活随性型", "low_label": "计划有序型"}];
+  const personalityMapping = {"classification_type": "mbti", "primary_tag": "ENFP", "tag_name": "追光者", "community_description": "和你一样的追光者，在人群中约占7%——你们是那种走进房间就能让气氛变亮的人。你靠直觉捕捉可能性，靠热情驱动行动，对世界抱有天然的好奇和善意。你擅长在别人看到障碍的地方看到门，在别人看到终点的地方看到起点。你的优势在于：你拥有罕见的感染力，能带动身边的人看到更好的自己；你思维跳跃却总能撞出火花，是天然的创意策源地；你对人的洞察力极强，能敏锐感知他人的情绪和需求。但你也需要注意：你的热情来得快去得也快，容易在事情进入执行阶段后感到厌倦；你有时会为了维持和谐而回避冲突，让问题在暗处发酵；你过度依赖灵感而非计划，可能会在关键时刻掉链子。追光者的成长方向，是学会在保持热情的同时为自己搭建可持续的系统，让灵感落地成作品，而不是永远停在起跑线上。你不是不够坚持，你只是需要找到值得坚持的、足够大的理由。", "possible_tags": ["追光者", "架构师", "守护者", "探险家"], "dominant_dim": "D1"};
+  const analysisData = [{"dim_id": "D1", "核心特质": "你像一块社交充电宝，聚会散场后反而电量满格。地铁上偶遇陌生人能聊成朋友，团队头脑风暴时你的点子总在别人的回应中迸发。独处三小时会心慌，但深夜烧烤摊的碰杯声能让你满血复活。在社群中，你是那个主动拉群、组局、把沉默者拽进话题的人——外倾不是话多，而是你的能量泵连接着人群的电流。", "潜在盲点": "你容易把‘热闹’误认为‘联结’，用高频社交掩盖深度思考的匮乏。当社群安静时，你会焦虑地制造话题，甚至打断他人沉思的节奏。独处时，你常刷手机填补空白，却忘了灵感往往诞生于无人喝彩的寂静。你的能量依赖外部反馈，一旦失去掌声，就像断电的霓虹灯——绚烂过，却从未真正照亮自己的内核。", "专属建议": "每周留出两小时‘数字斋戒’，关掉通知，独自散步或写日记。在社群中练习‘沉默倾听’，先数到十再发言，让别人的话真正落进你心里。试着把一次聚会改成‘一人茶会’，带本书去咖啡馆——你会发现，内倾不是牢笼，而是你从未启用的备用电源。真正的社群归属，不是永远在场，而是敢于暂时离场后仍被记得。"}, {"dim_id": "D2", "核心特质": "你像一台精密仪器，面对选择时自动调取数据、逻辑与长期目标。朋友纠结考研还是工作，你三分钟列出SWOT分析；自己换城市，先做成本收益表再订票。群里讨论投资方案，你总能冷静指出漏洞，被戏称‘人形计算器’。你享受这种掌控感——证据越多，决策越稳，哪怕慢一点，也不愿赌一把。", "潜在盲点": "过度依赖理性会让‘正确’变成冰冷铠甲。当伴侣期待你共情时，你递出的却是解决方案；团队头脑风暴中，你常打断感性提案，说‘这不科学’。你回避直觉信号，比如明明身体抗拒某份offer，却因数据完美而接受。久而久之，别人觉得你难靠近，你自己也困惑：为什么明明‘对’，关系却疏远了？", "专属建议": "试着给感性留一席之地：做决定前先问‘此刻身体是放松还是紧绷？’每周留一次‘无理由选择’（比如凭眼缘点菜）。在社群中主动发起‘直觉分享会’，让队友说说第一反应——你会发现，感性不是敌人，而是被忽略的雷达。真正的智慧是理性定方向，直觉调温度，两者合力，才走得远又暖。"}, {"dim_id": "D3", "核心特质": "你像一台高精度雷达，习惯先扫描事实、数据与可验证的细节，再形成判断。在社群讨论中，你常是那个抛出‘具体数据是什么’的人，能迅速从冗长对话里抓取关键信息，并转化为可执行步骤。你信任亲身经历和感官证据，对抽象理论保持谨慎，这种务实风格让你在实操类任务中天然成为可靠节点，同伴也爱找你核对信息。", "潜在盲点": "当信息缺乏实物锚点时，你容易本能地排斥直觉或隐喻性表达，甚至将他人基于感受的洞察误判为‘不严谨’。在快速变化的场景里，你或许过度依赖已有数据，而忽略环境中的微妙信号，比如对方未说出口的情绪或趋势的早期征兆。这会让你在社群中偶尔显得固执，错过那些无法被量化却至关重要的‘氛围信息’。", "专属建议": "试着把直觉当作另一种‘数据源’——它来自你过往经验的压缩包。下次讨论时，先刻意停顿3秒，问自己：‘如果抛开证据，我的第一感觉是什么？’并允许自己说出‘我隐约觉得……’。在社群中，你可以主动邀请‘感觉型’伙伴补充视角，把他们的描述当作待验证的假设，而非干扰。你会发现，务实与洞察并非对立，而是互补的两根天线。"}, {"dim_id": "D4", "核心特质": "你是那种说走就走的人，旅行从不做攻略，周末计划随时推翻重来。外卖软件能点开三家店纠结十分钟，但最后闭眼选一家也乐在其中。你享受被意外惊喜砸中的感觉，觉得变数才是生活的调味剂。朋友约你总说‘到时再看’，却总能在最后一刻出现，带着最鲜活的表情。你像一阵风，轻松吹散身边人按部就班的沉闷，聚会里没人觉得你不可靠，反而都羡慕你那份浑然天成的松弛感。", "潜在盲点": "你的随性偶尔会让别人踩空。答应周五交的表格拖到周日深夜，对方等你到凌晨才收到；说好一起看的电影，你临时换场，同伴的期待瞬间落空。你并非不负责，只是太相信‘船到桥头自然直’，却忘了有些人需要提前规划才能安心。更隐蔽的是，你常为临时选择付出隐性成本——多付的改签费、错过的预约、堆积的琐事，它们像小石子硌脚，久了也疼。你不爱承认，但偶尔的混乱，确实让你暗自焦虑。", "专属建议": "试着给生活留出‘弹性框架’：周中固定两件必做事，周末保留一个空白时段。重要约定设个提前24小时的提醒，不必严格照做，只是给自己留个缓冲。你把计划当枷锁，但可以把它看作游戏地图——知道终点在哪，途中仍能自由绕路。也请相信，那些爱你的人不是要你变成闹钟，只是希望在不确定里，能抓住你一只稳定的手。你的自由是礼物，加上一点可预期的温柔，会让同行者更安心地陪你疯。"}];
   const STORAGE_KEY = 'xhs_test_' + (personalityMapping.classification_type || 'test') + '_' + questions.length;
 
   // ═══ State ═══
@@ -236,7 +236,7 @@
       answers: answers,
       currentQ: currentQ,
       savedAt: new Date().toISOString(),
-      topic: '你像什么动物的测试题,15道',
+      topic: '呃,帮我生成一个10道测试题',
     };
     try {
       localStorage.setItem(STORAGE_KEY, JSON.stringify(data));
@@ -383,7 +383,7 @@
     });
 
     // Normalize 0-100 (dynamic scoring: max = round(100/question_count))
-    var maxPerQ = 7;
+    var maxPerQ = 10;
     var maxPossible = questions.length * maxPerQ;
     var normalized = {};
     Object.keys(rawScores).forEach(function(dim) {
